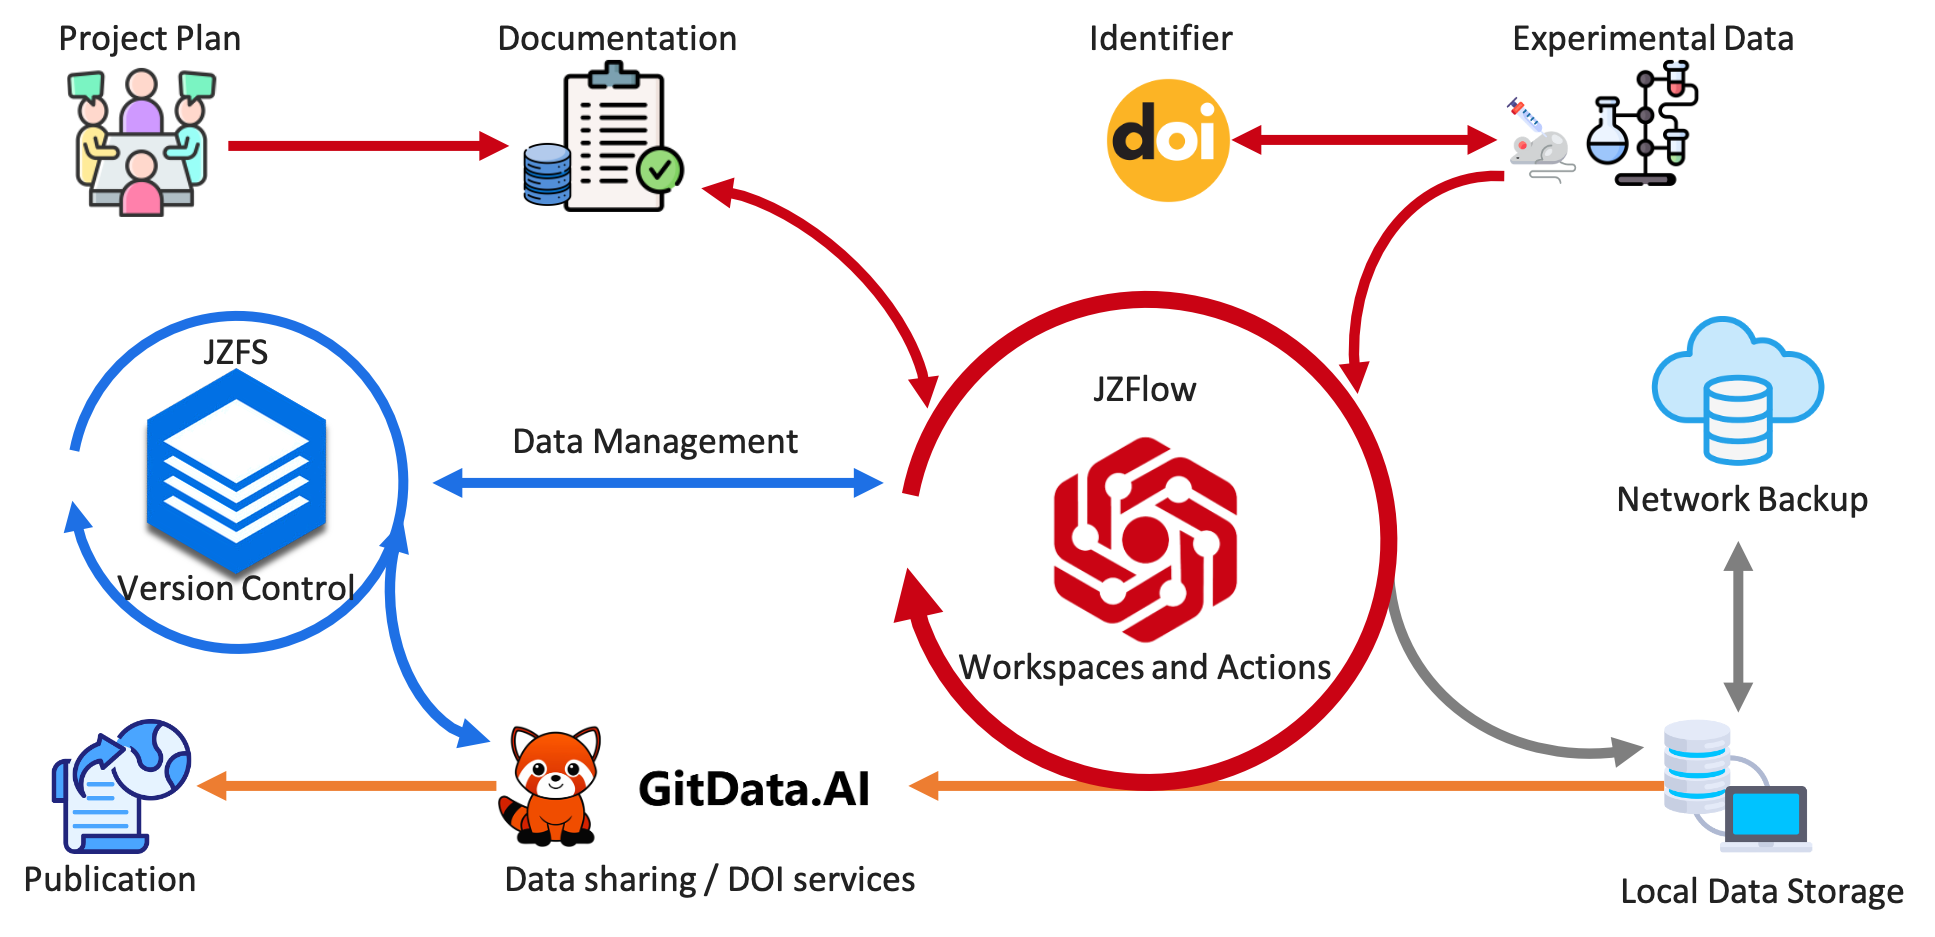
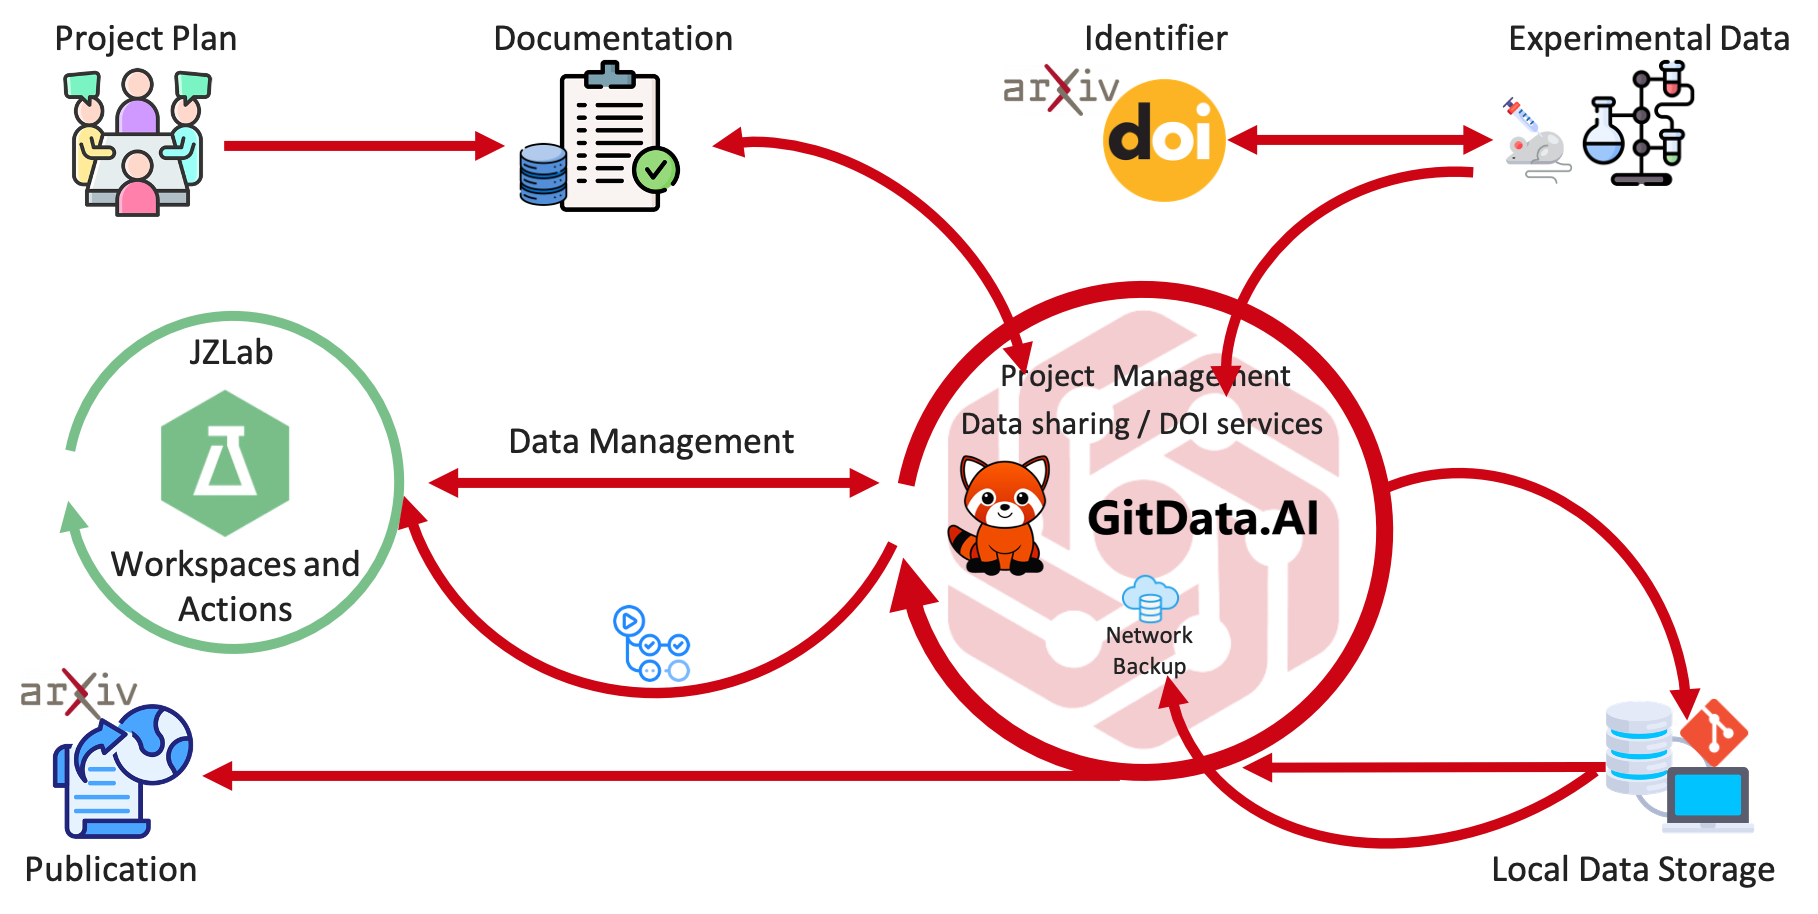
Feat/doc (#192)
* add logo picture and chagne jzfs joint management picture

* change logo file name of dark mode

* change size of picture

* change alignment of picture

* change picture alignment

* update image

* update alignment of image

* update jzfs research flow

* update the jzfs research flow

* change research flow picture

diff --git a/README.md b/README.md
@@ -93,7 +93,8 @@ JZFS is used to collect
 all experimental metadata about the complete timeline of longitudinal and multimodal animal experiments,
 including MRI, histology, electrophysiology, and behavior.
 
-![](./docs/jzfs-research-flow.png)
+![](./docs/research-flow.png)
+
 Project planning and experimental details are recorded in an in-house relational cloud-based database of GitData.AI.
 
 A key element for both the database and the data storage is the
@@ -163,7 +164,7 @@ This project is licensed under the [MIT License].
 
 Unless you explicitly state otherwise, any contribution intentionally submitted for inclusion in GitDataAi by you, Please refer to [Contribution Guidelines](Contributing.md), shall be licensed as MIT, without any additional terms or conditions.
 
-
+git@github.com:GitDataAI/jzfs.git
 
 
 
